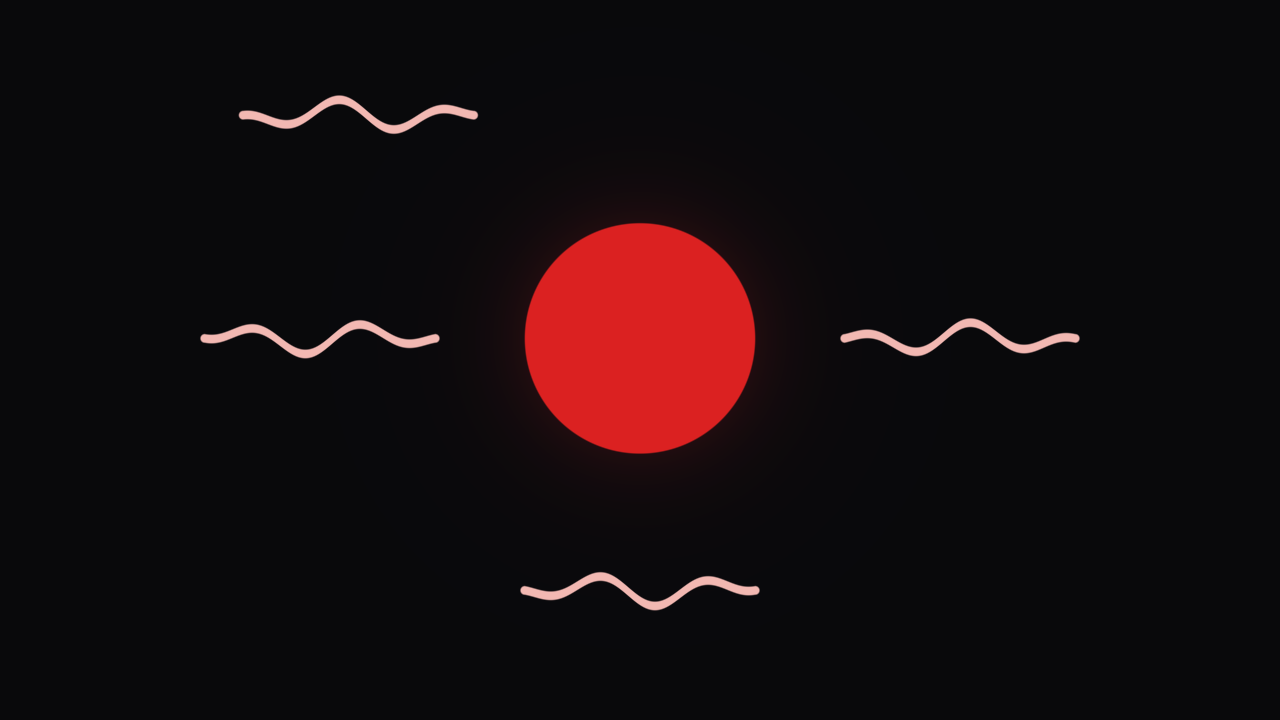
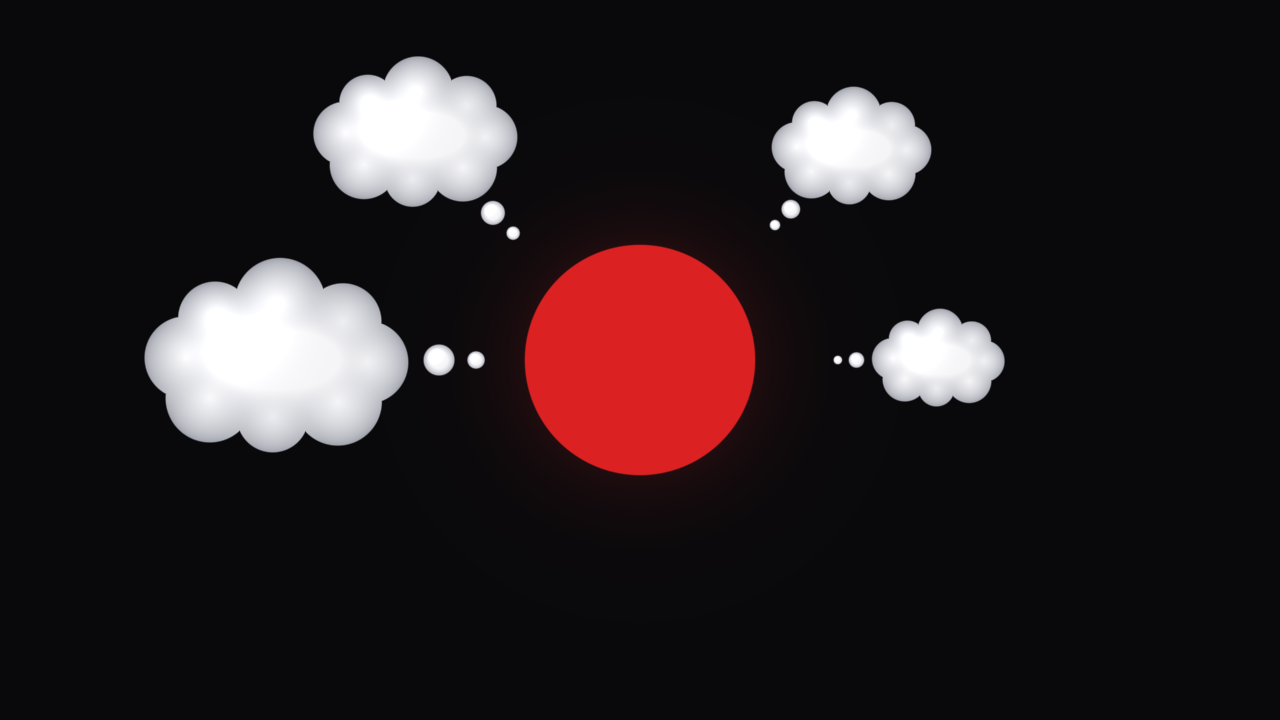
Screenshot: the red dot with four speech bubbles
docs/screenshot.png shows the clouds instead of the lines (1280 x 720, the canvas only, as
before); the README's description of it follows.

diff --git a/README.md b/README.md
@@ -1,6 +1,6 @@
 # RedDot
 
-![RedDot: the red dot with four recorded utterances around it](docs/screenshot.png)
+![RedDot: the red dot with four speech bubbles (clouds) around it](docs/screenshot.png)
 
 **RedDot is a frontend for voice input.** Hold the red dot and speak: the dot reacts while it hears speech, and a speech bubble (a cloud) pops up above it and grows while you talk, a trail of small puffs pointing at the dot. Tap a bubble to hear what you said again, drag bubbles and the dot around the screen.
 
